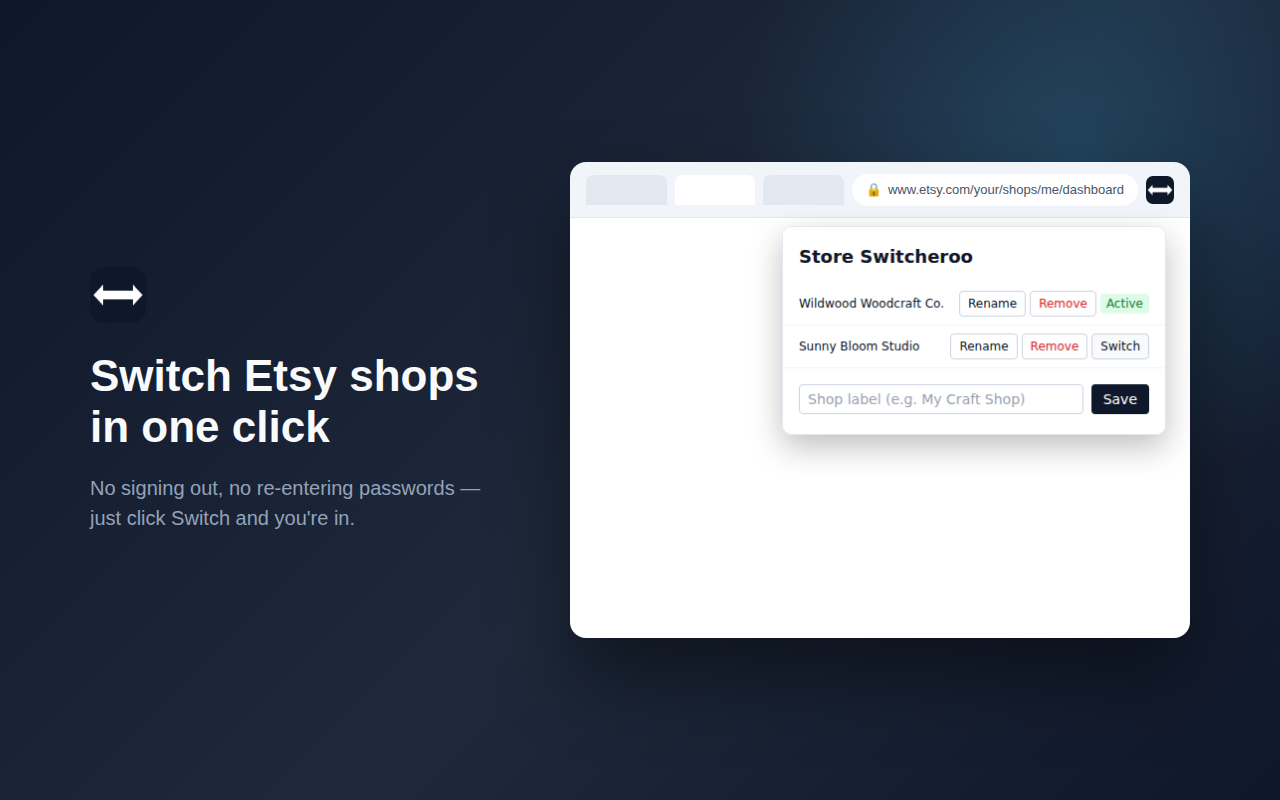
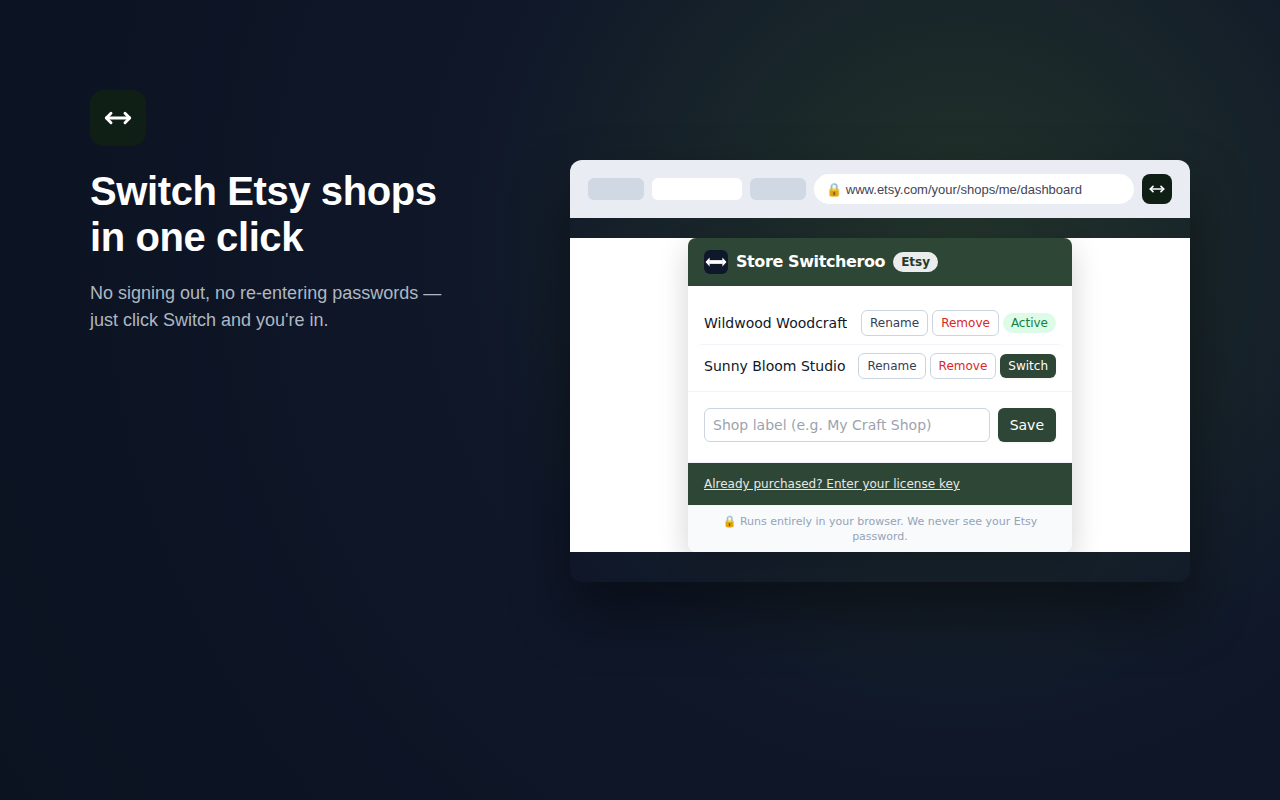
Regenerate store listing screenshots for the popup redesign, bump to 0.1.1
The three Chrome Web Store screenshots still showed the old plain popup
UI, not the redesigned one (branded header, pricing cards, colored
activate-license strip). Regenerated from the real built extension in
headed Chromium, same composition/template as the originals (dark
gradient background, mocked browser chrome, headline/subtitle copy) so
they stay visually consistent with the existing listing.

Bumps package.json to 0.1.1 since Chrome Web Store rejects a re-upload
at the same version as what's already published (0.1.0).

Claude-Session: https://claude.ai/code/session_01QSxsYEFiyzXF1u2FdgKBfa

diff --git a/CHANGELOG.md b/CHANGELOG.md
@@ -27,6 +27,7 @@ The format is based on [Keep a Changelog](https://keepachangelog.com/en/1.1.0/).
 - Upgrade UI and billing checkout: the popup shows a tier badge (Etsy/Enterprise) next to the "Store Switcheroo" heading, and at the free-tier cap the add-account form is replaced client-side by an upgrade section linking out to every billing plan (`lib/billing.ts`'s Stripe Payment Link URLs, test mode) — matching Stage 0's "block client-side with an upgrade CTA, not a silent failure" decision. A collapsible "Have a license key?" form (hidden until clicked, to stay out of the way for most users) activates a purchased key via the already-built `ACTIVATE_LICENSE` message. 11 new Vitest unit tests in `lib/popup-view.test.ts`. `e2e/upgrade-license.spec.ts` covers hitting the cap, activating a license (the license service's response mocked via `context.route()`, the same pattern `etsy-session-helper.ts` uses for Etsy — no real network access to it from CI or this sandbox), and saving a 3rd account once upgraded. **Verified in real Chromium**: screenshots confirm the upgrade section, the activate-license form, and the Enterprise badge all render correctly with real Tailwind CSS.
 - Marquee promo tile (`store-assets/marquee-tile-1400x560.png`), generated the same way as the small promo tile — reuses the icon set's navy/white branding, at the exact required 1400×560 size for Chrome Web Store's optional featured-placement asset.
 - Automated Chrome Web Store publishing (`.github/workflows/ci.yml`): a `publish-chrome-web-store` job runs after `release-smoke-test` on every push to `main`, uploading and publishing the exact zip artifact the smoke test already built and validated via `chrome-webstore-upload-cli`. Decided full auto-publish (not upload-only) after asking directly, since a push to `main` becoming a live store submission with no human checkpoint is a real tradeoff. Needs a `CHROME_PUBLISHER_ID` repository secret that doesn't exist yet — see `ROADMAP.md` Stage 10.
+- Popup redesign (`lib/popup-view.ts`, `tailwind.config.js`): the plain, unbranded popup looked untrustworthy for something asking people to pay, and the only way to see purchase options was already being at the free-tier cap. Adds a branded header bar (a `brand` color scale matching mcqforyou.design's forest green, `#2e4635`) with the extension icon and a persistent "✨ Upgrade" button for free-tier users below the cap, revealing the same billing-plan panel the at-cap flow already used. Replaces the loose row of text-link plans with per-tier pricing cards (2×2 grid of plan tiles styled as solid buttons, not bordered info cards, with the monthly term marked "Popular") — feedback after an initial pass was that the tiles didn't read as clickable checkout links. "Already purchased? Enter your license key" got its own colored strip at the bottom; the key field itself still stays hidden until clicked. Adds a one-line trust footer pulled from `PRIVACY_POLICY.md`'s actual claims. New Vitest coverage for the upgrade CTA's visibility rules and reveal behavior. Store listing screenshots (`store-assets/screenshot-*.png`) regenerated from the real redesigned popup to match.
 
 ### Fixed
 
